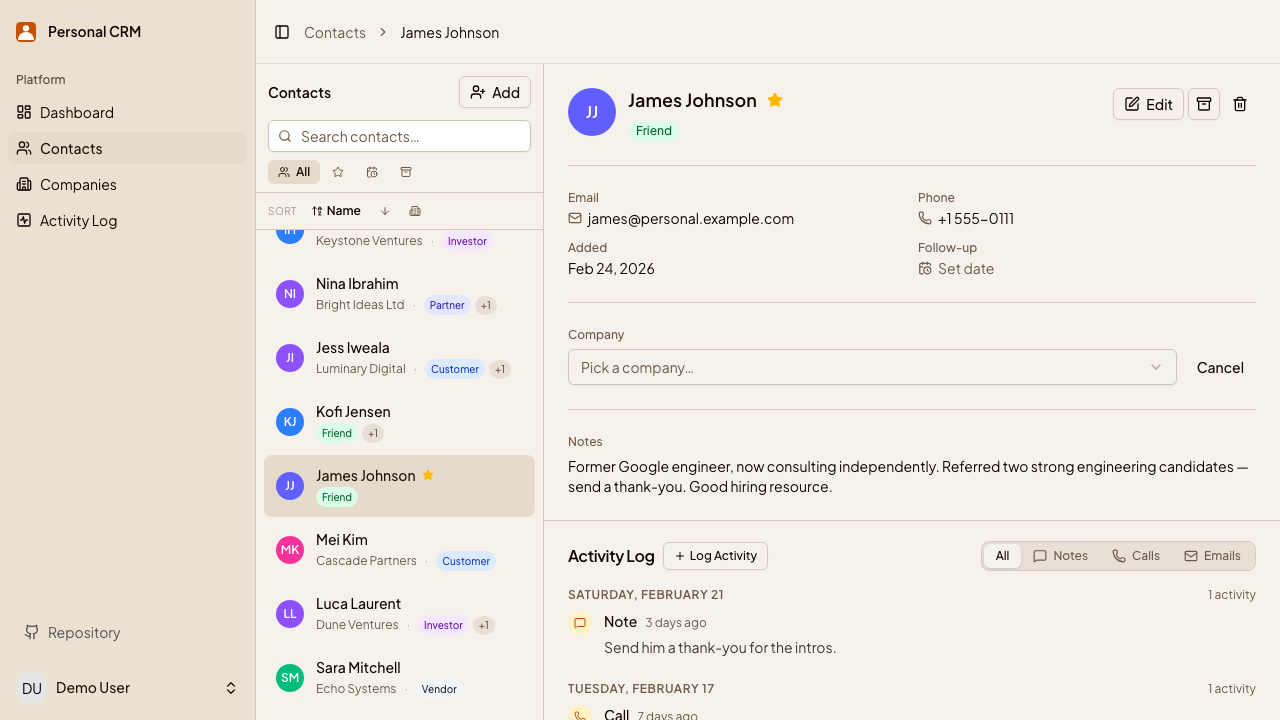
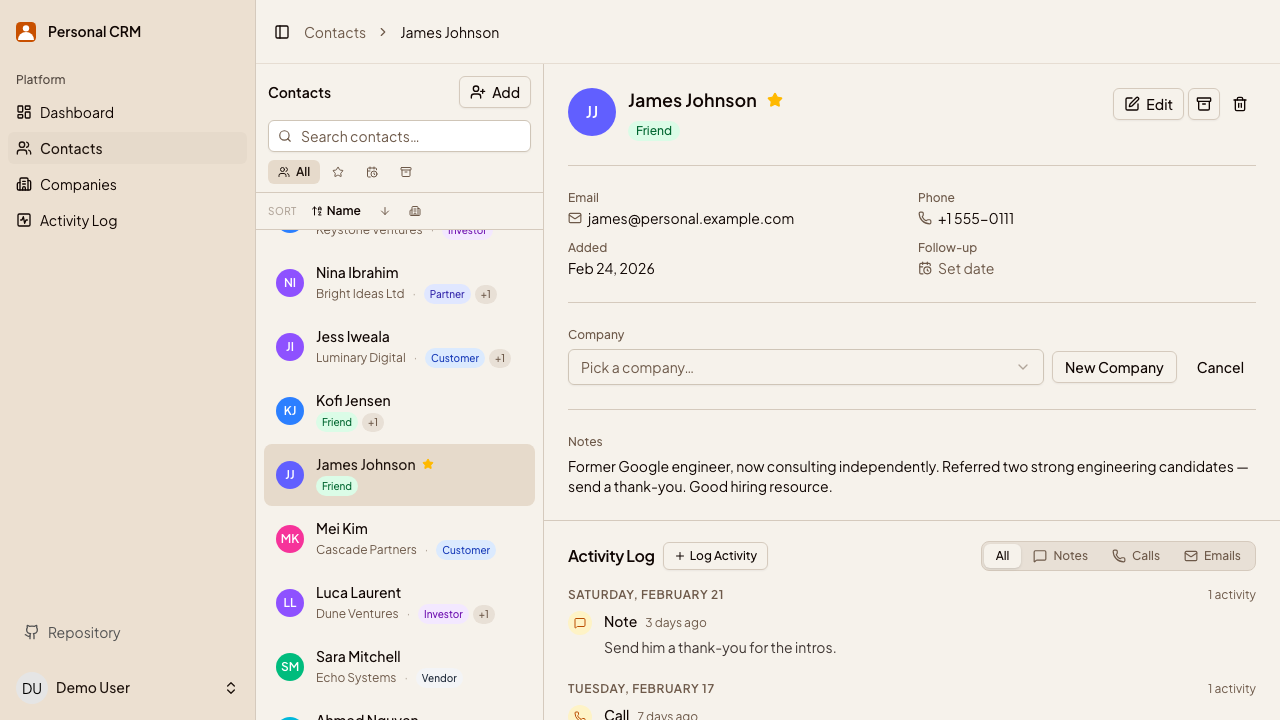
Add New Company ModalLink to associate picker
Lets users jump straight to creating a company from the inline
associate section without navigating away.

diff --git a/app/frontend/components/crm/contact-detail.tsx b/app/frontend/components/crm/contact-detail.tsx
@@ -55,6 +55,7 @@ import {
   contactPath,
   contactsPath,
   editContactPath,
+  newCompanyPath,
   starContactPath,
 } from "@/routes"
 import type { Company, Contact } from "@/types"
@@ -451,6 +452,16 @@ export function ContactDetail({
                   ))}
                 </SelectContent>
               </Select>
+              <Button
+                variant="outline"
+                size="sm"
+                className="h-8 shrink-0"
+                asChild
+              >
+                <ModalLink navigate href={newCompanyPath()}>
+                  New Company
+                </ModalLink>
+              </Button>
               <Button
                 variant="ghost"
                 size="sm"
